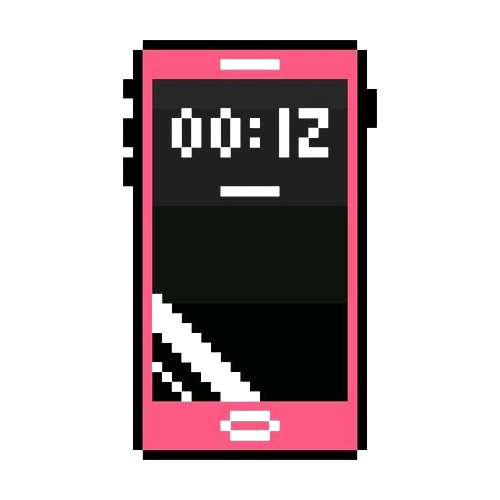
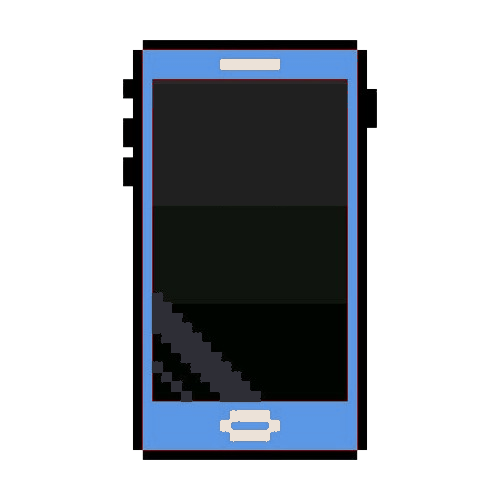
fix: all

Changed region(s): [[0.27, 0.09, 0.72, 0.9], [0.42, 0.36, 0.57, 0.42]]

diff --git a/src/game/scenes/maison.js b/src/game/scenes/maison.js
@@ -296,7 +296,7 @@ const carteDuNiveau = this.add.tilemap("carte1");
       this, 700, 420, "sac_a_main", "Sac à main",
       "Un sac à main abandonné. Il pourrait servir à ranger des objets utiles à l'enquête.",
       {
-        taille: 40,
+        taille: 20,
         message: "Sac à main récupéré",
         perimetre: 60,
         ajouterAInventaire: false,
@@ -315,7 +315,7 @@ const carteDuNiveau = this.add.tilemap("carte1");
       this, 200, 150, "carte2", "Carte",
       "Une carte de la ville et de ses environs.",
       {
-        taille: 40,
+        taille: 20,
         message: "Carte récupérée",
         perimetre: 100,
         ajouterAInventaire: false,
@@ -373,8 +373,8 @@ const tileset = carteDuNiveau.addTilesetImage(
      ****************************/
     groupe_plateformes = this.physics.add.staticGroup();
     player = this.physics.add.sprite(800, 530, "img_perso");
-    telephone = this.physics.add.sprite(250, 800, "telephone");
-    telephone.setScale(0.03);
+    telephone = this.physics.add.sprite(250, 800, "telephone_violette");
+    telephone.setScale(0.05);
     this.telephone = telephone;
 
 // NOUVEAU : animations de Marguerite (sprite "pnj_fille"), réglages en haut du fichier
@@ -396,7 +396,7 @@ this.cinematiqueEnCours = false;
 
 
           telephone2 = this.physics.add.sprite(300, 530, "telephone");
-    telephone2.setScale(0.03);
+    telephone2.setScale(0.05);
     this.telephone2 = telephone2;
 
     // NOUVEAU : la lettre "E" au-dessus du téléphone
@@ -547,7 +547,7 @@ dessus_dessus.setDepth(40);
 
       // NOUVEAU : le cadre photo -> complètement optionnel, juste une vue en grand
       const distPhoto = Phaser.Math.Distance.Between(player.x, player.y, this.cadrePhoto.x, this.cadrePhoto.y);
-      if (distPhoto < 60) {
+      if (distPhoto < 90) {
         this.afficherCadrePhoto();
         return;
       }
@@ -702,7 +702,7 @@ this.indiceOrdinateur.setVisible(this.ordinateurDebloque() && !ordinateurOuvert 
 
     // NOUVEAU : "E" du cadre photo
     const distPhotoMaj = Phaser.Math.Distance.Between(player.x, player.y, this.cadrePhoto.x, this.cadrePhoto.y);
-    this.indiceCadrePhoto.setVisible(distPhotoMaj < 60);
+    this.indiceCadrePhoto.setVisible(distPhotoMaj < 90);
 
     // NOUVEAU : "E" de Marguerite
     if (this.margueriteDisponible && this.margueriteMaison && this.indiceMarguerite) {

diff --git a/src/game/scenes/menu.js b/src/game/scenes/menu.js
@@ -72,6 +72,7 @@ this.load.image("Phaser_tuilesdejeu9", "./assets/barthe.png");
 this.load.tilemapTiledJSON("carte9", "./assets/cafethe.json");
 
 this.load.image("telephone", "./assets/telephone.png");
+this.load.image("telephone_violette", "./assets/telephone_violette.png");
 this.load.image("telephone_fond", "./assets/telephone_fond.png");
 
 this.load.image("moi_colere", "./assets/moi_colere.png");
@@ -163,8 +164,8 @@ this.load.image("papier", "./assets/papier.webp");
 // dans preload()
 this.load.audio("musique_gendarmerie", "assets/musique.mp3");
 
-this.load.image("sac_a_main", "./assets/sac_a_main.webp");
-this.load.image("carte2", "./assets/carte2.png");
+this.load.image("sac_a_main", "./assets/sac.png");
+this.load.image("carte2", "./assets/carte.png");
 
 //scene cafe
  this.load.image("porte_balthazar", "./assets/porte_balthazar.png");
@@ -295,7 +296,7 @@ this.load.spritesheet("martin", "./assets/sprite_martin.png", {
     //Cas ou la sourris clique sur le bouton play :
     // on lance le niveau 1
     bouton_play.on("pointerup", () => {
-        this.scene.start("instruction");
+        this.scene.start("maison");
         
       });
 

diff --git a/src/game/scenes/telephone.js b/src/game/scenes/telephone.js
@@ -3,16 +3,16 @@ import TelephoneBase from "./telephone_base.js";
 // Conversations d'Adrien
 const contacts = [
   {
-    nom: "V",
+    nom: "Tu sais qui",
     apercu: "Ne le dis à...",
     heure: "Hier",
     horodatage: "Hier 18:32",
     couleur: 0x5e5ce6,
     messages: [
-      { expediteur: "V", texte: "Bon maintenant que tu sais tout il faut qu'on s'explique" },
-      { expediteur: "V", texte: "Tu devras faire le bon choix." },
+      { expediteur: "Tu sais qui", texte: "Bon maintenant que tu sais tout il faut qu'on s'explique" },
+      { expediteur: "Tu sais qui", texte: "Tu devras faire le bon choix." },
       { expediteur: "moi", texte: "Cette fois-ci tu m'expliqueras tout." },
-      { expediteur: "V", texte: "Ne le dis à personne. Rejoins moi au Bar La gorge Fraîche." },
+      { expediteur: "Tu sais qui", texte: "Ne le dis à personne. Rejoins moi au Bar La gorge Fraîche." },
     ],
   },
   {
